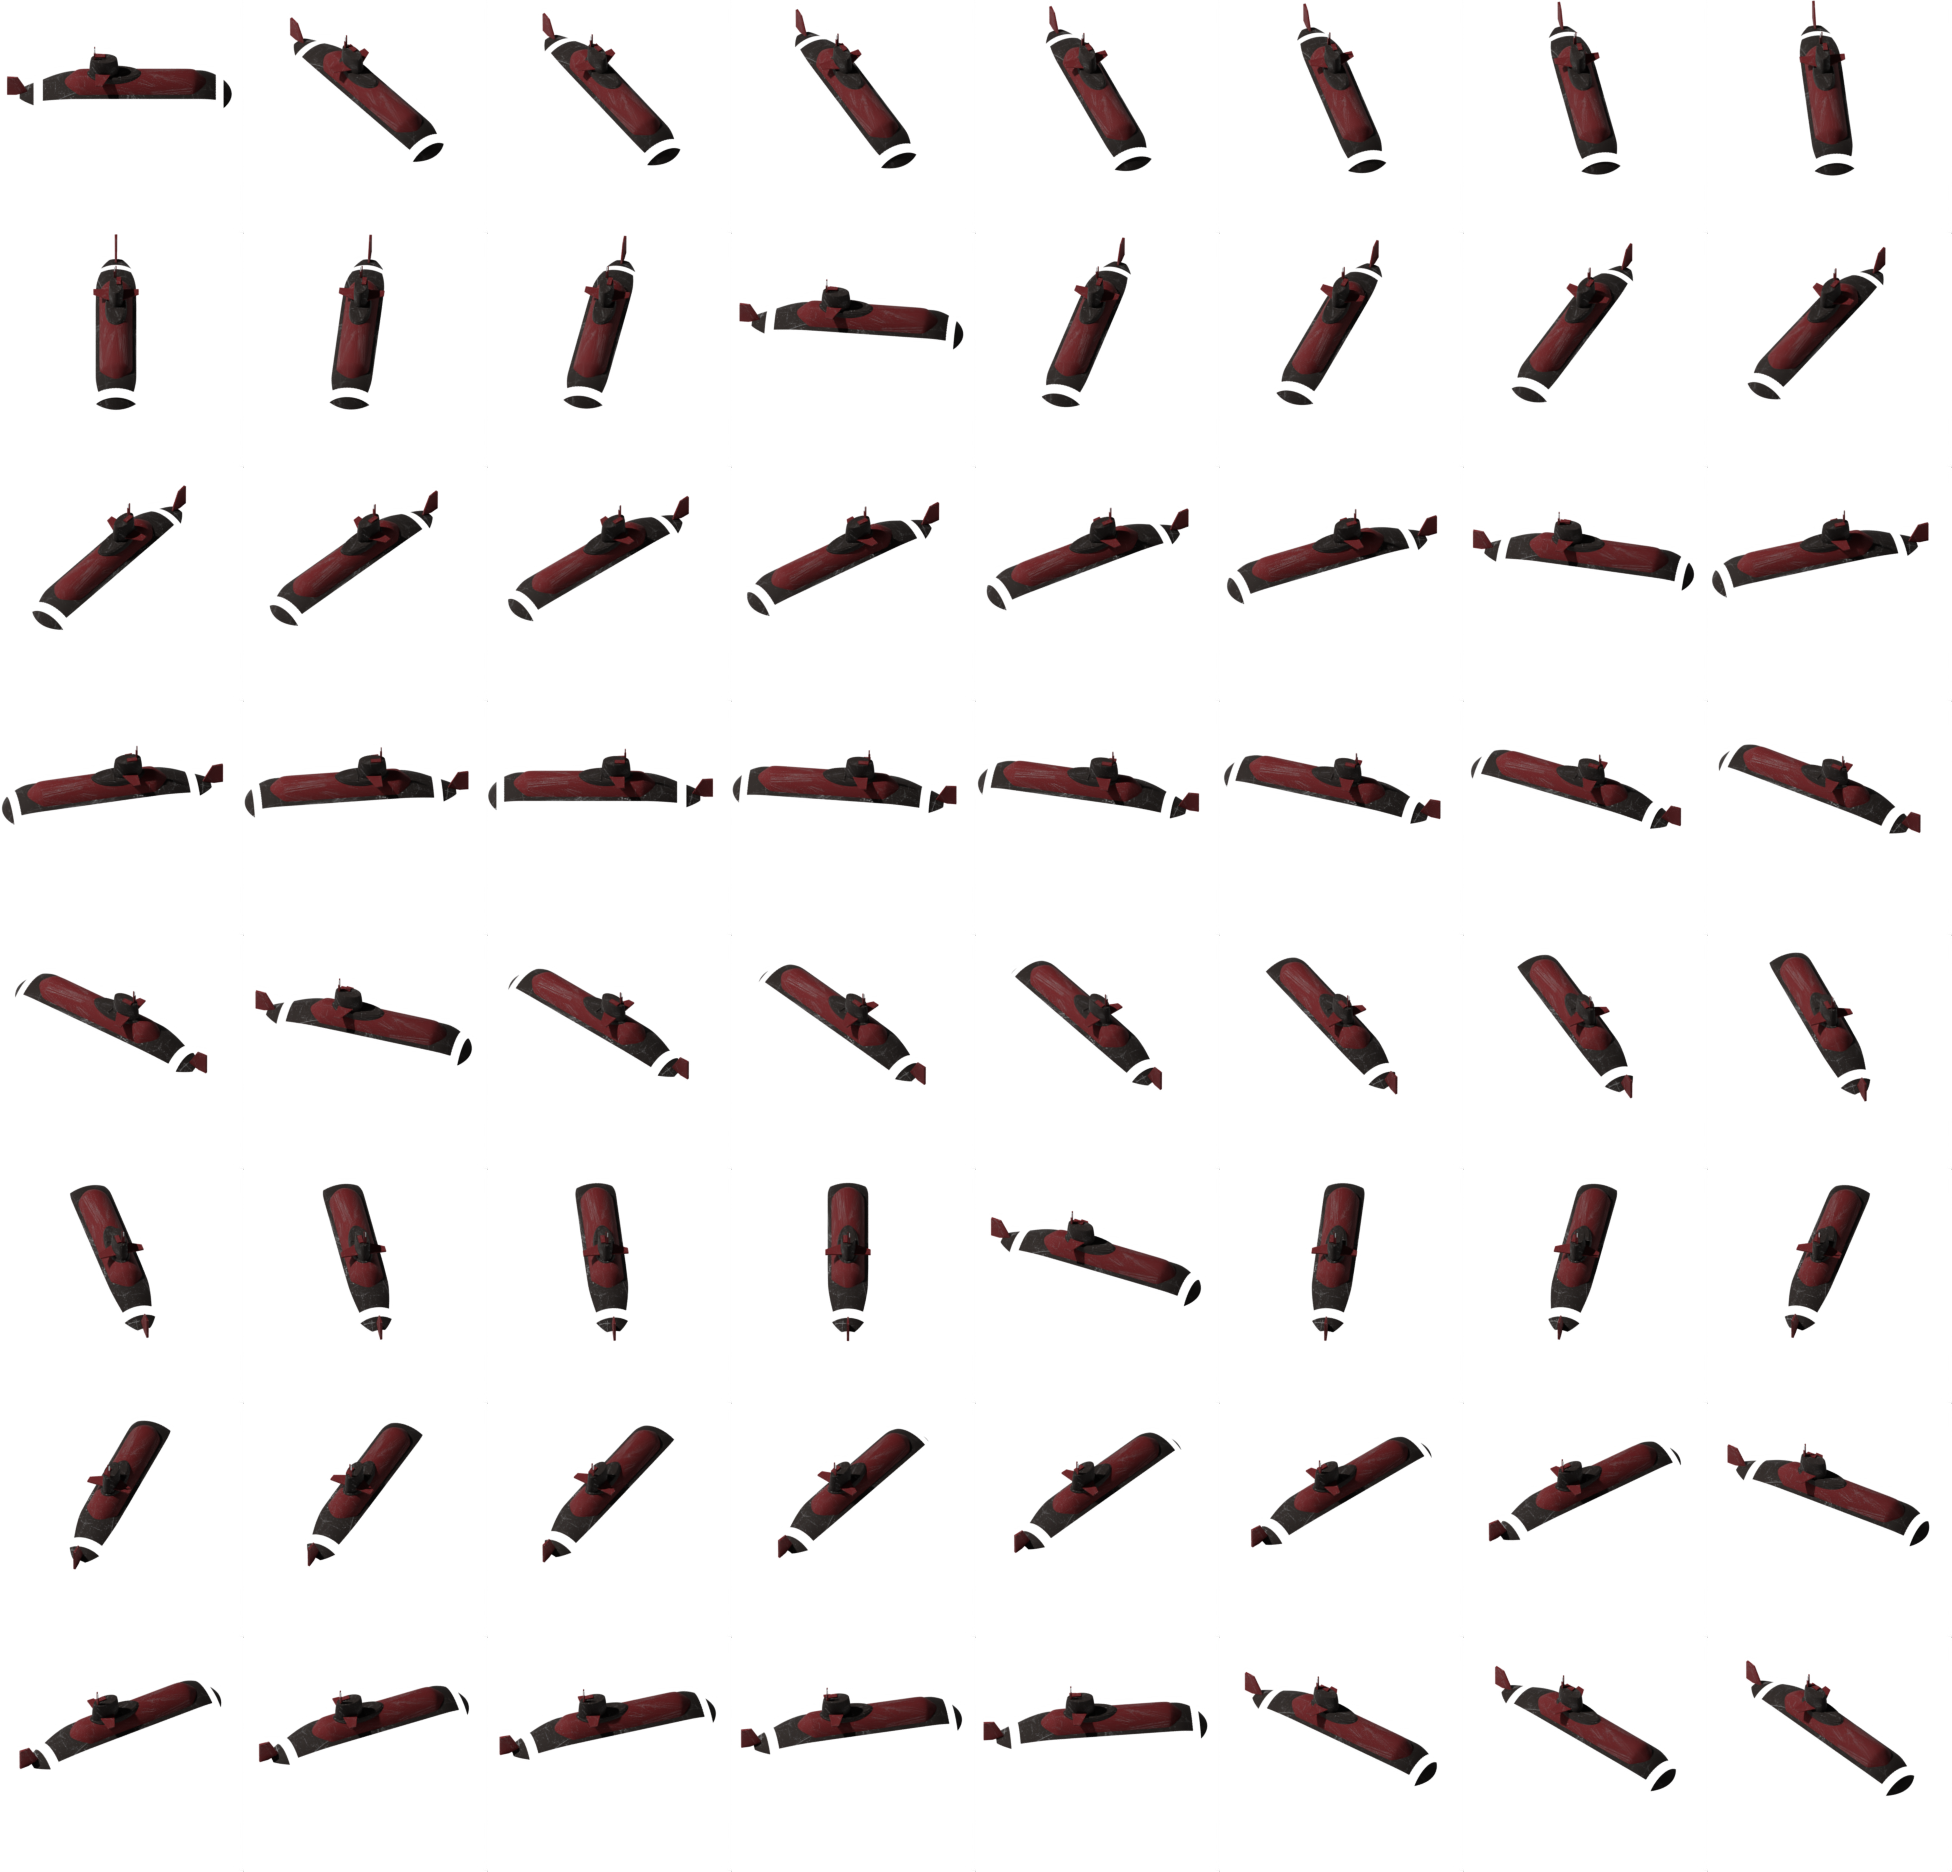
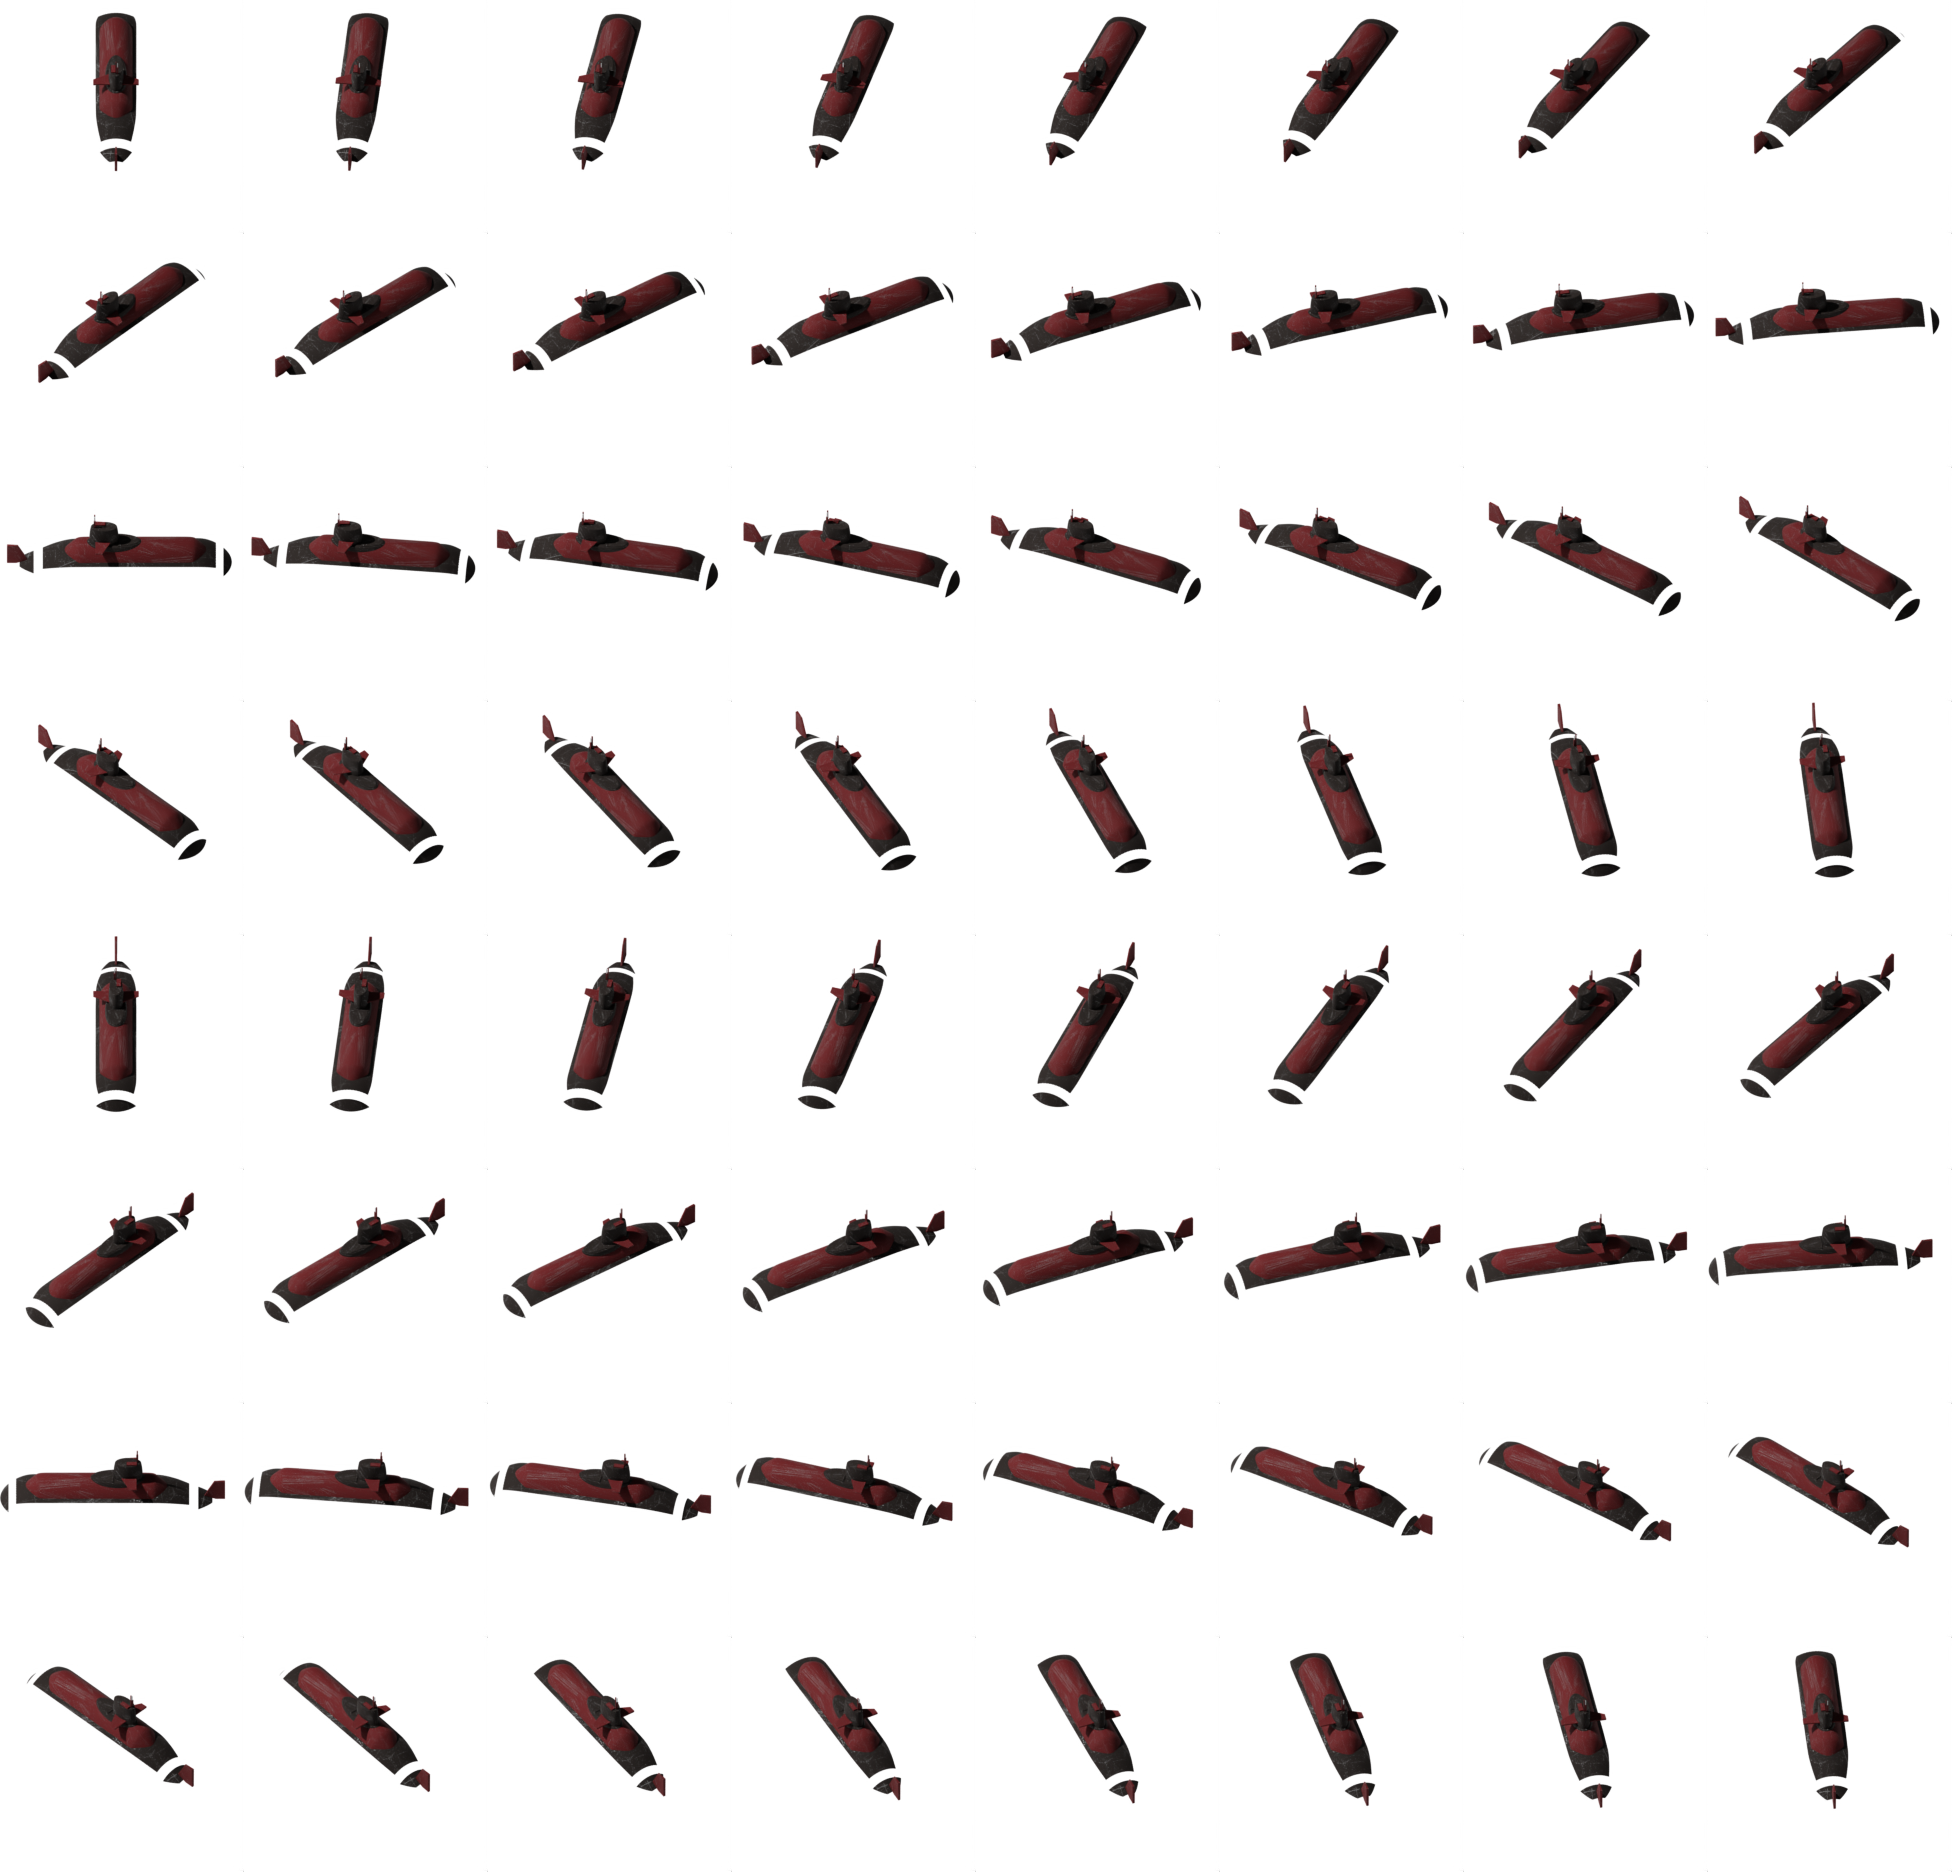
Implement sub prototypes

diff --git a/graphics/entity/submarine/q.py b/graphics/entity/submarine/q.py
@@ -1,0 +1,19 @@
+import os
+
+suffixes = ['shadow', 'body', 'full-body', 'mask', 'light']
+directory = '''C:/Users/zacha/Documents/factorio/mods/dihydrogen-monoxide/graphics/entity/submarine/''' + suffixes[1] + '/'
+
+for filename in os.listdir(directory):
+    if filename.endswith('.png'):
+        print(filename)
+        # Extract the number from the filename
+        number = int(filename.replace('-aaa', '').split('-')[-1].split('.')[0])
+        
+        # Apply the formula to adjust the number
+        adjusted_number = (number - 17) % 64 + 1
+        
+        # Create the new filename with the adjusted number
+        new_filename = filename.replace('-'+str(number), '-'+str(adjusted_number)).replace('.png', '-aaa.png')
+        
+        # Rename the file
+        os.rename(os.path.join(directory, filename), os.path.join(directory, new_filename))
